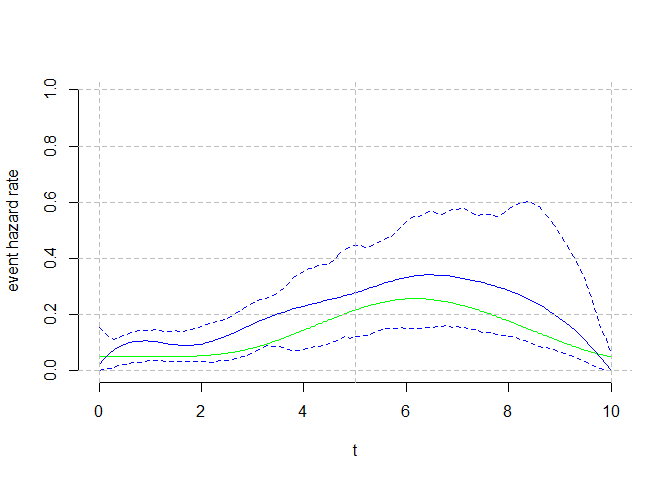
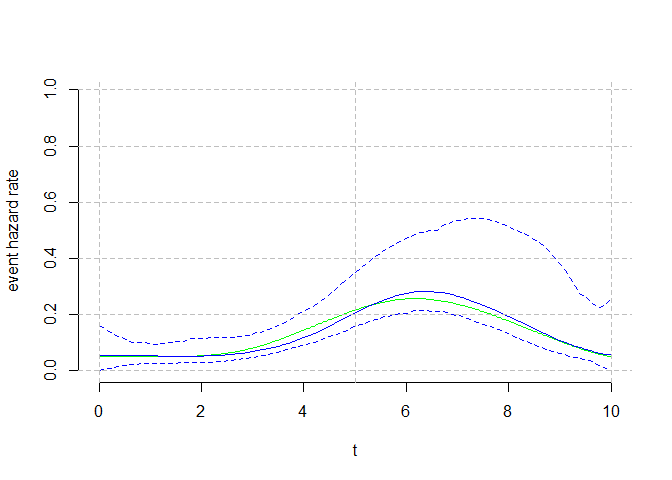
Added "vignettes" folder for experiments and demos outside main package

diff --git a/README.md b/README.md
@@ -74,22 +74,22 @@ hist( SimDat$time[ which(SimDat$status==0)], main="", xlab="t", breaks="Freedman
    # Result = hspcore(yd=SimDat, ORDER=4, knots=c(0,1,3,6,10), time=timeout, Bootstrap = 120, verbose=FALSE )   
    Result = hspcore(yd=SimDat, ORDER=4, Exterior.knots = c(0,10), Interior.knots=NULL, SelectBestKnots = TRUE, time=timeout, Bootstrap = 220, verbose=FALSE )  
 #> [1] "Automatic search for K the number of interior knots of the B-spline hazard function"
-#> [1] "K= 1 AICc=98.8369107313701 knots= 0 0.5 1"
-#> [1] "K= 2 AICc=101.72570941807 knots= 0 0.3 0.6 1"
-#> [1] "K= 3 AICc=101.893346310461 knots= 0 0.3 0.5 0.6 1"
-#> [1] "K= 4 AICc=99.5429790656955 knots= 0 0.2 0.4 0.5 0.7 1"
-#> [1] "K= 5 AICc=103.821219138625 knots= 0 0.2 0.3 0.5 0.6 0.7 1"
-#> [1] "K= 6 AICc=70.5968005410835 knots= 0 0.2 0.3 0.4 0.5 0.6 0.7 1"
-#> [1] "K= 7 AICc=107.97293199042 knots= 0 0.2 0.3 0.4 0.5 0.5 0.6 0.7 1"
-#> [1] "K= 8 AICc=98.7417802769373 knots= 0 0.1 0.3 0.3 0.4 0.5 0.6 0.6 0.8 1"
-#> [1] "SEARCH RESULT: We use 6 interior B-spline knots"
-#> [1] "K= 6 DOF= 10 knots= 0 0.2 0.3 0.4 0.5 0.6 0.7 1"
+#> [1] "K= 1 AICc=276.663168661205 knots= 0 0.5 1"
+#> [1] "K= 2 AICc=270.745130690711 knots= 0 0.4 0.6 1"
+#> [1] "K= 3 AICc=271.361819043669 knots= 0 0.4 0.5 0.7 1"
+#> [1] "K= 4 AICc=272.418478398915 knots= 0 0.3 0.5 0.6 0.7 1"
+#> [1] "K= 5 AICc=274.639288244576 knots= 0 0.2 0.4 0.5 0.6 0.7 1"
+#> [1] "K= 6 AICc=275.484203868168 knots= 0 0.2 0.4 0.5 0.6 0.6 0.7 1"
+#> [1] "K= 7 AICc=277.113332549397 knots= 0 0.2 0.4 0.4 0.5 0.6 0.7 0.8 1"
+#> [1] "K= 8 AICc=279.377087603384 knots= 0 0.1 0.3 0.4 0.5 0.6 0.6 0.7 0.8 1"
+#> [1] "SEARCH RESULT: We use 2 interior B-spline knots"
+#> [1] "K= 2 DOF= 6 knots= 0 0.4 0.6 1"
 #> [1] "Variance estimation using bootstrap"
    
    table( c("L-BFGS-B","PORT","None")[ Result$convergenceb[,3] ] )
 #> 
 #> L-BFGS-B     PORT 
-#>      212        8
+#>      124       96
 ```
 
 <img src="man/figures/README-result-figures-side-1.png" width="50%" /><img src="man/figures/README-result-figures-side-2.png" width="50%" /><img src="man/figures/README-result-figures-side-3.png" width="50%" /><img src="man/figures/README-result-figures-side-4.png" width="50%" />
